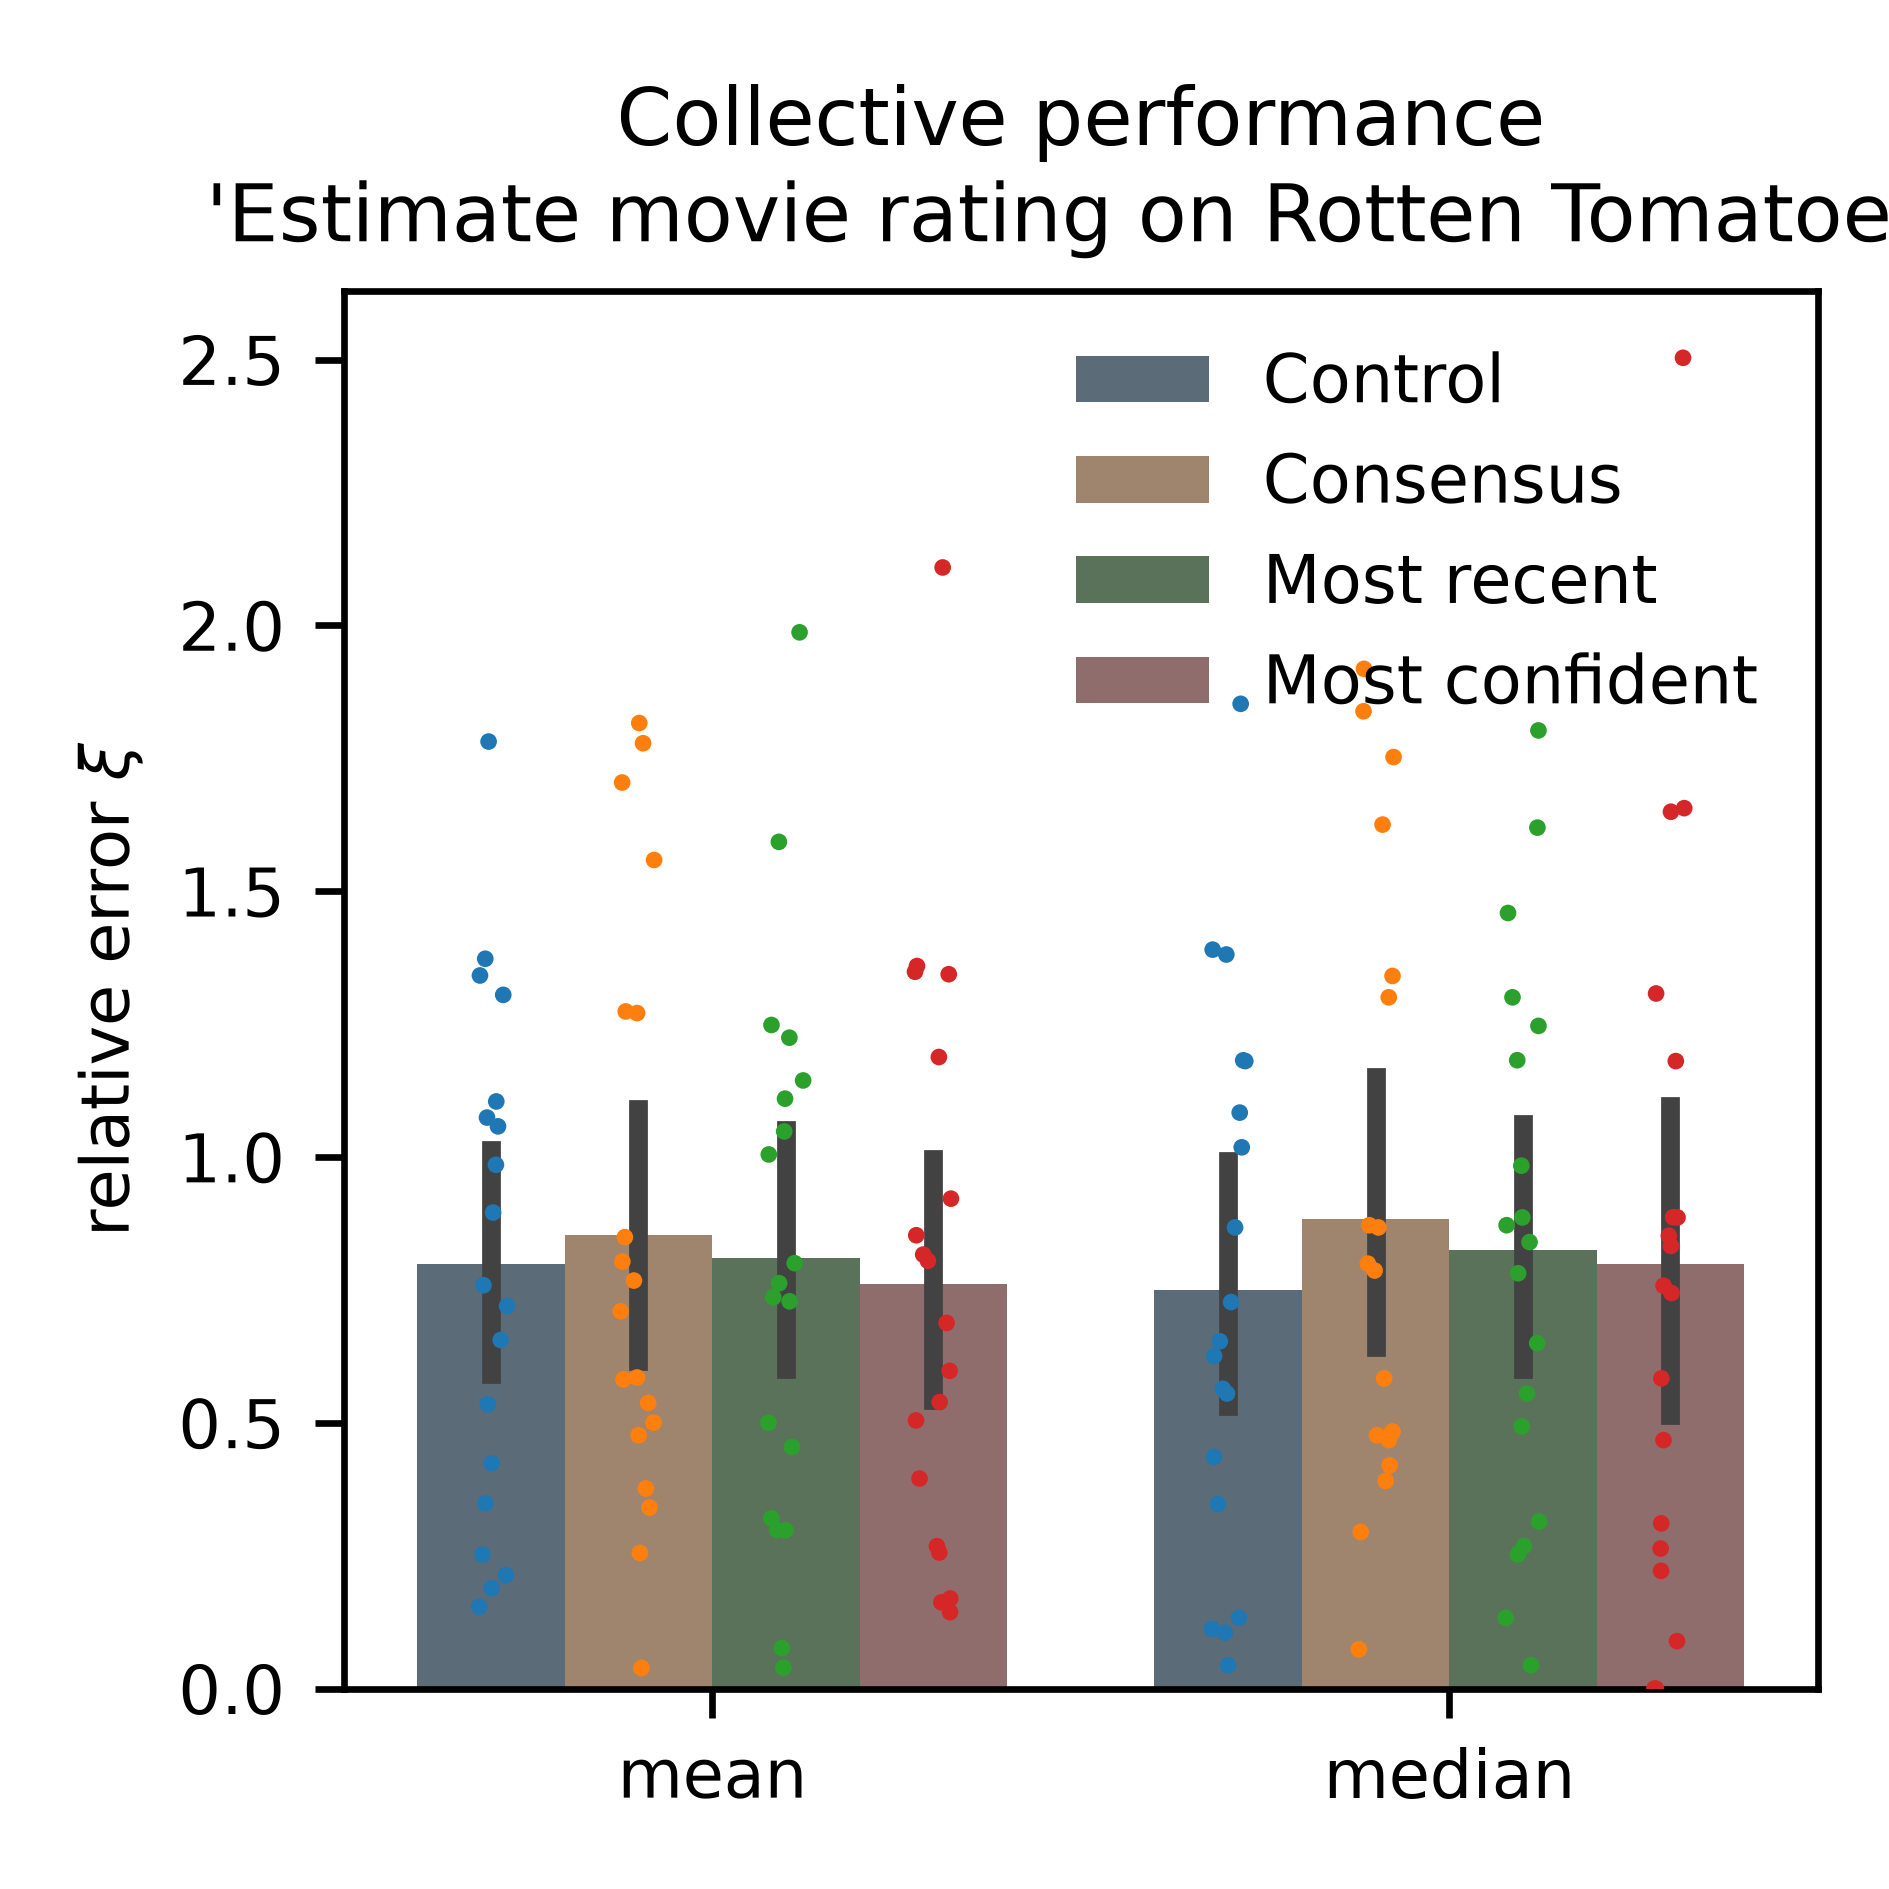
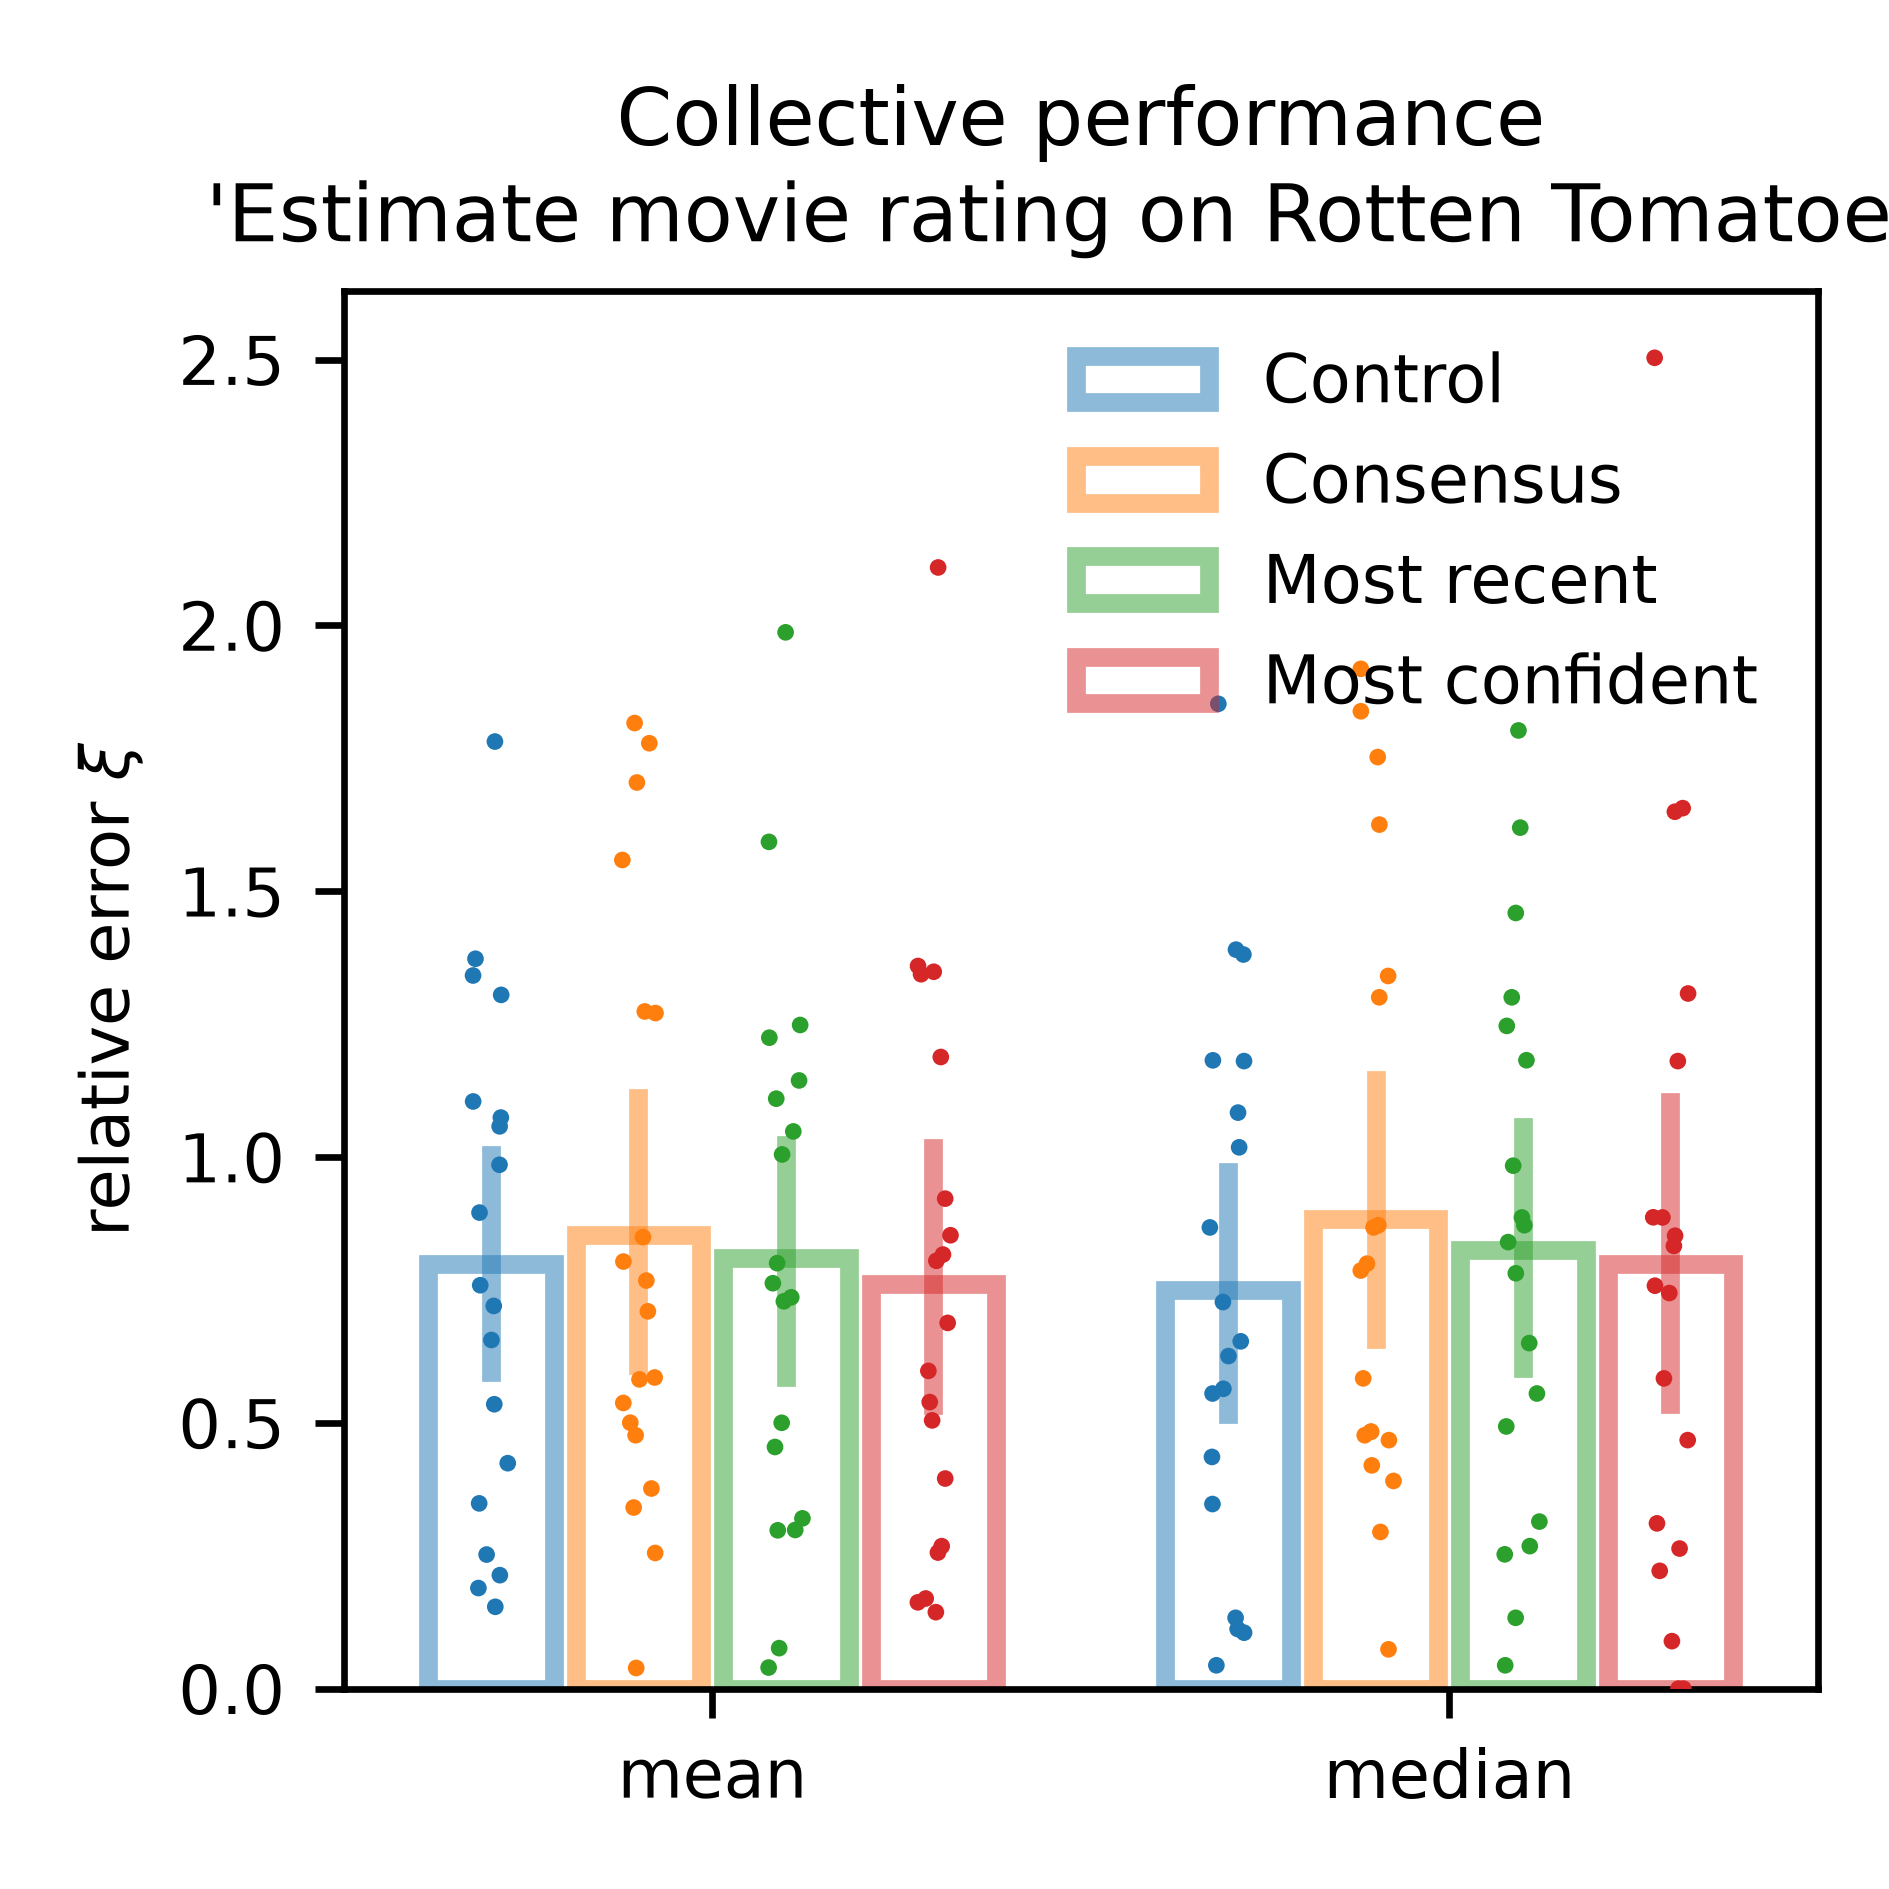
updated simoiu

diff --git a/simoiu.py b/simoiu.py
@@ -118,8 +118,8 @@ xis_df = pd.DataFrame(xis, columns=["condition", "movie", "xi_mean", "xi_median"
 # %%
 fig, ax = plt.subplots(1,1,figsize=(8/2.54, 8/2.54))
 xis_df_melted = xis_df.melt(id_vars=["condition", "movie"], value_name="xi", var_name="metric").replace({"xi_mean":"mean", "xi_median":"median"})
-sns.barplot(xis_df_melted, hue="condition", x="metric", y="xi", saturation=0.2)
-sns.stripplot(xis_df_melted, hue="condition", x="metric", y="xi", dodge=True, legend=False, size=2)
+sns.barplot(xis_df_melted, hue="condition", x="metric", y="xi", fill=False, gap=0.15, alpha=0.5, err_kws={"alpha":0.5})
+sns.stripplot(xis_df_melted, hue="condition", x="metric", y="xi", dodge=True, legend=False, size=2,)
 plt.xlabel(None)
 plt.legend(title="", frameon=False, ncol=1)
 plt.ylabel(r"relative error $\xi$")
